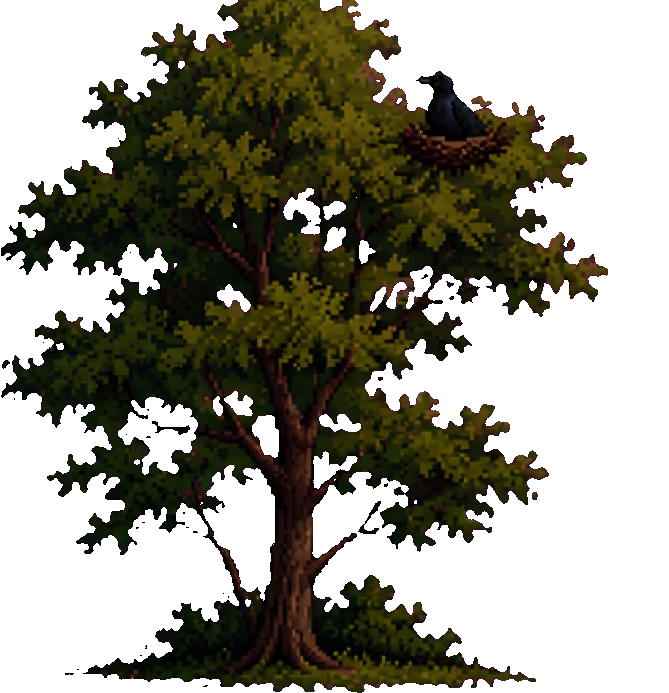
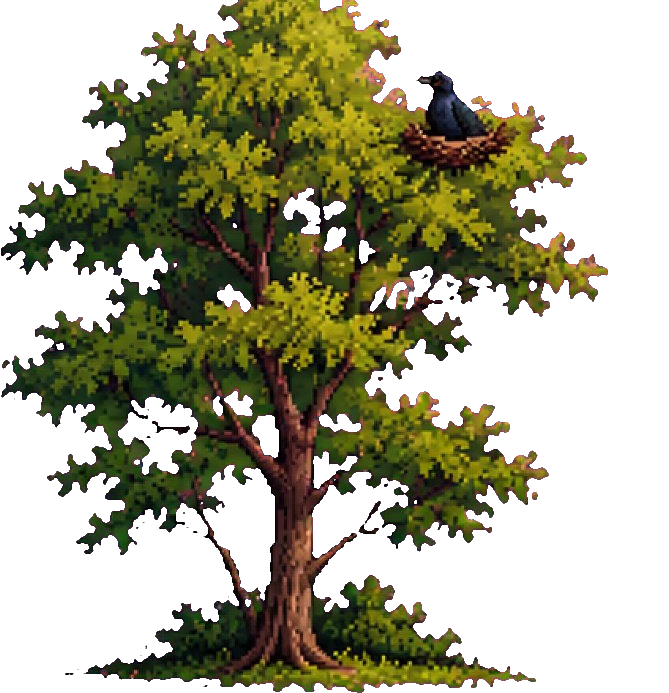
Nestbaum in Front-Szene bei Meier & Co (v77)

diff --git a/kaufvertrag_demo.html b/kaufvertrag_demo.html
@@ -956,7 +956,7 @@ ende: pxSzene('#000010', (R,D)=>{
    Liegen im Repo PNGs mit diesen Namen, werden sie automatisch
    statt der Pixel-Programme geladen. Fehlen sie: Pixel-Fallback.
    ===================================================== */
-const BILD_VERSION = '76';
+const BILD_VERSION = '77';
 function vurl(u){ return u + '?v=' + BILD_VERSION; }
 const SZENEN_BILDER = {
   titel:'kaufvertrag_titel.png',
@@ -1108,12 +1108,12 @@ const SPRITES = {
       x:660, y:172, w:94, h:51 },
   ],
   discount: [
-    { id:'nestbaum', frames:['kaufvertrag_nestbaum_0.png','kaufvertrag_nestbaum_1.png','kaufvertrag_nestbaum_2.png'], x:452, y:121, w:78, h:81 },
     { id:'katze', frames:['kaufvertrag_katze_0.png','kaufvertrag_katze_1.png','kaufvertrag_katze_2.png',
       'kaufvertrag_katze_3.png','kaufvertrag_katze_4.png','kaufvertrag_katze_5.png','kaufvertrag_katze_6.png'],
       x:680, y:198, w:30, h:24 },
   ],
   front: [
+    { id:'nestbaum', frames:['kaufvertrag_nestbaum_0.png','kaufvertrag_nestbaum_1.png','kaufvertrag_nestbaum_2.png'], x:392, y:96, w:69.5, h:72 },
     { id:'taubeA', frames:['kaufvertrag_taube_a0.png','kaufvertrag_taube_a1.png'], x:62, y:238, w:28, h:17 },
     { id:'taubeB', frames:['kaufvertrag_taube_b0.png','kaufvertrag_taube_b1.png'], x:90, y:240, w:26, h:16 },
   ],
@@ -2334,7 +2334,7 @@ function nestStart(){
   if(reduzierteBewegung()) return;
   nestT.t = setInterval(()=>{
     const e = document.getElementById('sp-nestbaum');
-    if(!e || aktuelleSzeneId!=='discount') return;
+    if(!e || aktuelleSzeneId!=='front') return;
     const z = Math.random();
     e.setAttribute('href', vurl(NESTBAUM_FRAMES[z<0.66?0:(z<0.9?2:1)]));
   }, 4500);
@@ -2347,7 +2347,7 @@ function tiereWechsel(szene){
   if(szene==='titel') autoStart(); else autoStop();
   if(szene==='schule'){ lehrerStart(); } else { lehrerStop(); }
   if(szene==='weiche'){ kraeheStart(); } else { kraeheStop(); }
-  if(szene==='discount'){ nestStart(); } else { nestStop(); }
+  if(szene==='front'){ nestStart(); } else { nestStop(); }
   rektorStop();
   if(szene==='treppe'){ treppenAuftritt(); } else { auftrittStop(); gespraechStop(); }
   if(szene==='discount') katzeStart(); else katzeStop();

diff --git a/kaufvertrag_fd642d69.html b/kaufvertrag_fd642d69.html
@@ -957,7 +957,7 @@ ende: pxSzene('#000010', (R,D)=>{
    Liegen im Repo PNGs mit diesen Namen, werden sie automatisch
    statt der Pixel-Programme geladen. Fehlen sie: Pixel-Fallback.
    ===================================================== */
-const BILD_VERSION = '76';
+const BILD_VERSION = '77';
 function vurl(u){ return u + '?v=' + BILD_VERSION; }
 const SZENEN_BILDER = {
   titel:'kaufvertrag_titel.png',
@@ -1109,12 +1109,12 @@ const SPRITES = {
       x:660, y:172, w:94, h:51 },
   ],
   discount: [
-    { id:'nestbaum', frames:['kaufvertrag_nestbaum_0.png','kaufvertrag_nestbaum_1.png','kaufvertrag_nestbaum_2.png'], x:452, y:121, w:78, h:81 },
     { id:'katze', frames:['kaufvertrag_katze_0.png','kaufvertrag_katze_1.png','kaufvertrag_katze_2.png',
       'kaufvertrag_katze_3.png','kaufvertrag_katze_4.png','kaufvertrag_katze_5.png','kaufvertrag_katze_6.png'],
       x:680, y:198, w:30, h:24 },
   ],
   front: [
+    { id:'nestbaum', frames:['kaufvertrag_nestbaum_0.png','kaufvertrag_nestbaum_1.png','kaufvertrag_nestbaum_2.png'], x:392, y:96, w:69.5, h:72 },
     { id:'taubeA', frames:['kaufvertrag_taube_a0.png','kaufvertrag_taube_a1.png'], x:62, y:238, w:28, h:17 },
     { id:'taubeB', frames:['kaufvertrag_taube_b0.png','kaufvertrag_taube_b1.png'], x:90, y:240, w:26, h:16 },
   ],
@@ -2335,7 +2335,7 @@ function nestStart(){
   if(reduzierteBewegung()) return;
   nestT.t = setInterval(()=>{
     const e = document.getElementById('sp-nestbaum');
-    if(!e || aktuelleSzeneId!=='discount') return;
+    if(!e || aktuelleSzeneId!=='front') return;
     const z = Math.random();
     e.setAttribute('href', vurl(NESTBAUM_FRAMES[z<0.66?0:(z<0.9?2:1)]));
   }, 4500);
@@ -2348,7 +2348,7 @@ function tiereWechsel(szene){
   if(szene==='titel') autoStart(); else autoStop();
   if(szene==='schule'){ lehrerStart(); } else { lehrerStop(); }
   if(szene==='weiche'){ kraeheStart(); } else { kraeheStop(); }
-  if(szene==='discount'){ nestStart(); } else { nestStop(); }
+  if(szene==='front'){ nestStart(); } else { nestStop(); }
   rektorStop();
   if(szene==='treppe'){ treppenAuftritt(); } else { auftrittStop(); gespraechStop(); }
   if(szene==='discount') katzeStart(); else katzeStop();
